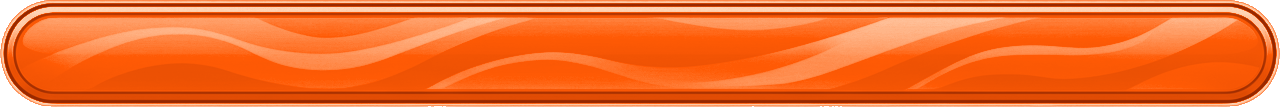
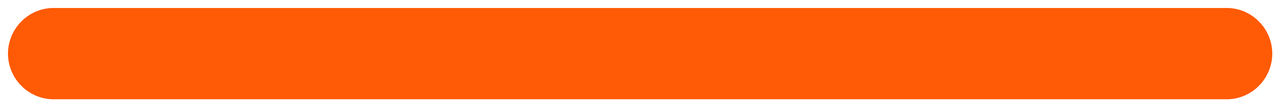
Online screens: flat bars and cards, no cloud swirls; shorter footer labels in Portuguese
Claude-Session: https://claude.ai/code/session_01DDfnXSMYNnWowJAjnB3ZWo

diff --git a/port/tools/onfly_theme.py b/port/tools/onfly_theme.py
@@ -5,10 +5,10 @@
 
 The colours are the ones the company's public site uses (read from its style sheets, 2026-11-14): the blue #009EFB
 with its dark #0062AB and light #97CCFD, the orange of its buttons #FF5A05, the dark #192A3D and #121212, the cream
-#FAF9F5. The interface pieces keep their shapes, sizes and transparency: each is read as it is in the commit ORIGIN
-(the pictures the screens came with) and only its colours are drawn again, a pixel's brightness placed on a ramp
-dark - base - light (the picture's middle brightness lands on the base). The Dragon Radar keeps its drawing, turned
-from green to the blue. The background is drawn here: the blue, a globe's lines and flight paths.
+#FAF9F5. The interface pieces (bars, capsules, window, box) are drawn here from nothing, flat and round-ended as the site's
+buttons and cards are, at the sizes of the pictures the screens came with (so the screens' slicing of ends and
+corners still fits). The Dragon Radar keeps its drawing (read as it is in the commit ORIGIN), turned from green to
+the blue. The background is drawn here: the blue, a globe's lines and flight paths.
 The sizes do not change, so include/menu/tbo_sizes.h stays as it is.
 """
 import io
@@ -26,16 +26,6 @@ BLUE, BLUE_DARK, BLUE_LIGHT, BLUE_PALE = (0, 158, 251), (0, 98, 171), (151, 204,
 ORANGE, ORANGE_DARK = (255, 90, 5), (215, 54, 0)
 NAVY, INK, CREAM = (25, 42, 61), (18, 18, 18), (250, 249, 245)
 
-RAMPS = {  # picture: dark, base, light
-    "kit_bar": ((0, 44, 82), BLUE_DARK, BLUE_LIGHT),
-    "kit_sel": ((150, 40, 0), ORANGE, (255, 214, 184)),
-    "kit_gold": ((150, 40, 0), ORANGE, (255, 222, 198)),
-    "kit_steel": ((14, 40, 66), (36, 110, 170), BLUE_PALE),
-    "kit_window": ((8, 18, 30), NAVY, (70, 110, 150)),
-    "kit_dialog": ((6, 12, 20), (14, 28, 44), BLUE),
-}
-
-
 def original(name):
     data = subprocess.run(["git", "show", f"{ORIGIN}:port/tbo/ui/{name}.png"], cwd=ROOT, capture_output=True, check=True).stdout
     return Image.open(io.BytesIO(data)).convert("RGBA")
@@ -45,18 +35,37 @@ def lerp(a, b, t):
     return tuple(int(round(a[i] + (b[i] - a[i]) * t)) for i in range(3))
 
 
-def ramp(name, dark, base, light):
-    im = original(name)
-    px = im.load()
-    lum = sorted((0.299 * r + 0.587 * g + 0.114 * b) / 255.0 for r, g, b, a in im.getdata() if a > 128)
-    mid = min(max(lum[len(lum) // 2], 0.15), 0.85)
-    table = [lerp(dark, base, (i / 255.0) / mid) if i / 255.0 < mid else lerp(base, light, (i / 255.0 - mid) / (1.0 - mid)) for i in range(256)]
-    for y in range(im.height):
-        for x in range(im.width):
-            r, g, b, a = px[x, y]
-            if a:
-                px[x, y] = table[int(0.299 * r + 0.587 * g + 0.114 * b)] + (a,)
-    im.save(ART / f"{name}.png", optimize=True)
+SIZES = {"kit_bar": (1273, 100), "kit_sel": (1280, 107), "kit_gold": (306, 81), "kit_steel": (306, 75),
+         "kit_window": (465, 224), "kit_dialog": (1273, 204)}  # as the pictures the screens came with (tbo_sizes.h)
+K = 4  # drawn this many times larger and scaled down (smooth edges)
+
+
+def flat(name, fill, radius=None, border=None, ring=None):
+    """One flat rounded shape filling the picture: a bar (radius None: half its height) or a box. `border` a thin
+    line inside its edge, `ring` a white line round it (the chosen bar)."""
+    w, h = SIZES[name]
+    im = Image.new("RGBA", (w * K, h * K), (0, 0, 0, 0))
+    d = ImageDraw.Draw(im)
+    m = 3 * K
+    r = (h * K - 2 * m) // 2 if radius is None else radius * K
+    if ring is not None:
+        d.rounded_rectangle((m, m, w * K - m, h * K - m), r, fill=ring)
+        m += 5 * K
+        r = max(r - 5 * K, 0)
+    d.rounded_rectangle((m, m, w * K - m, h * K - m), r, fill=fill)
+    if border is not None:
+        d.rounded_rectangle((m, m, w * K - m, h * K - m), r, outline=border, width=2 * K)
+    im.resize((w, h), Image.LANCZOS).save(ART / f"{name}.png", optimize=True)
+
+
+def kit():
+    # flat, round-ended, one colour each, as the site's buttons and cards are: no gloss, no pattern, no ornaments
+    flat("kit_bar", (30, 62, 96, 255))                                   # a row: a blue darker than the page
+    flat("kit_sel", ORANGE + (255,), ring=(255, 255, 255, 255))          # the chosen row: the site's button orange
+    flat("kit_gold", ORANGE_DARK + (255,))                               # a marked row, a dialog's button
+    flat("kit_steel", (87, 99, 113, 255))                                # a tag ("EM BREVE", "GESTOR")
+    flat("kit_window", (12, 24, 40, 242), radius=30, border=(151, 204, 253, 90))   # a card
+    flat("kit_dialog", (18, 18, 18, 236), radius=40, border=BLUE + (255,))
 
 
 def radar():
@@ -103,11 +112,10 @@ def background():
 
 
 def main():
-    for name, (dark, base, light) in RAMPS.items():
-        ramp(name, dark, base, light)
+    kit()
     radar()
     background()
-    print("port/tbo/ui: " + ", ".join(list(RAMPS) + ["radar", "bg"]))
+    print("port/tbo/ui: " + ", ".join(list(SIZES) + ["radar", "bg"]))
 
 
 if __name__ == "__main__":

diff --git a/port/tools/onfly_pt.py b/port/tools/onfly_pt.py
@@ -170,8 +170,8 @@ PT = {
     "TOURNAMENT": "RINHA", "VERSUS": "VERSUS", "%d PLAYERS": "%d VIAJANTES", "%d%% (STANDARD)": "%d%% (PADRÃO)",
     "OFF": "DESLIGADO", "UP TO %d FRAMES": "ATÉ %d QUADROS",
     "Match On": "Luta em Curso", "Start Next Match": "Próxima Decolagem", "New Tournament": "Nova Rinha",
-    "Start Tournament": "Começar a Rinha", "Start Match": "Decolar", "Bracket": "Itinerário",
-    "Not Ready": "Sem Check-in", "Ready": "Check-in Feito", "Chat": "Chat", "Close Lobby": "Fechar Sala", "Leave Lobby": "Sair da Sala",
+    "Start Tournament": "Começar Rinha", "Start Match": "Decolar", "Bracket": "Itinerário",
+    "Not Ready": "Sem Check-in", "Ready": "Check-in Feito", "Chat": "Chat", "Close Lobby": "Fechar", "Leave Lobby": "Sair",
     "A MATCH IS ON ALREADY": "JÁ HÁ UMA LUTA EM CURSO",
     "TWO PLAYERS ARE NEEDED: ONE IN 1P, ONE IN 2P": "FALTAM DOIS VIAJANTES: UM NO 1P, UM NO 2P",
     "CHOOSE THE WINNER OF THE DISPUTED MATCH ON THE BRACKET": "ESCOLHA NO ITINERÁRIO O APROVADO DA LUTA EM AUDITORIA",
@@ -179,7 +179,7 @@ PT = {
     "NO MATCH LEFT TO PLAY": "NÃO HÁ MAIS LUTAS",
     "PUT AT LEAST TWO PLAYERS IN THE PLAYER PLACES": "COLOQUE PELO MENOS DOIS VIAJANTES NOS ASSENTOS",
     "Send": "Enviar", "Yes": "Sim", "No": "Não", "Move": "Remarcar", "Remove from the Lobby": "Cancelar a Reserva", "OK": "OK",
-    "Move Here": "Remarcar Aqui", "Copy Code": "Copiar Localizador", "Copy Address": "Copiar Endereço",
+    "Move Here": "Remarcar Aqui", "Copy Code": "Copiar", "Copy Address": "Copiar",
     "THE ENTRANTS CANNOT CHANGE DURING A TOURNAMENT": "OS VIAJANTES NÃO MUDAM DURANTE UMA RINHA",
     "THE RULES CANNOT CHANGE DURING A MATCH": "A POLÍTICA NÃO MUDA DURANTE UMA LUTA",
     "NOT DURING A MATCH: THE PLACES CHANGE BETWEEN MATCHES": "DURANTE A LUTA NÃO: OS ASSENTOS MUDAM ENTRE AS LUTAS",

diff --git a/src/menu/port_tbo.c b/src/menu/port_tbo.c
@@ -4240,7 +4240,9 @@ s32 PortTbo_Run(void) {
         Tb_Speak();
         Ps_PageSet();
         Tb_Backdrop();
-        IconWin_Draw(); /* the clouds in the corners, the emblem, the line under the title */
+        /* (the fork's look: the game's heading window, IconWin_Draw, with its cloud swirls in the corners is not
+           drawn; a plain line under the title stands for its line) */
+        Ps_Quad(Tb_TitleLeft(), 55.0f, 300.0f, 55.0f, Tb_TitleLeft(), 57.0f, 300.0f, 57.0f, 0x80FFFFFF, 0x00FFFFFF, 0x80FFFFFF, 0x00FFFFFF);
         Tb_Draw();
         Tb_DrawText();
         Ps_PromptsDraw();

diff --git a/docs/port/README.md b/docs/port/README.md
@@ -4850,12 +4850,19 @@ and the font are the ones its public site uses, read from the site's style sheet
 #97CCFD, the orange of its buttons #FF5A05, the dark #192A3D, and Poppins.
 
 - **Pictures** (`port/tbo/ui`, made by `port/tools/onfly_theme.py`, which needs Pillow): the bars, the capsules, the
-  window and the hosts' box keep their shapes and sizes and are coloured again from their brightness (bars blue, the
-  chosen bar and the gold capsule orange, window and box dark blue); the Dragon Radar is turned from green to blue;
+  window and the hosts' box are drawn again from nothing, flat and round-ended as the site's buttons and cards are,
+  at the sizes they had (first they were only coloured again, and the user found they still looked like the game's:
+  the gloss, the wave pattern, the frames); a row is dark blue, the chosen row the orange with a white ring, a window
+  a dark card with a thin line; the Dragon Radar is turned from green to blue;
   the background (the tournament grounds) is replaced by one drawn by the tool, the blue with a globe's lines. The
   announcer, the buttons and the crest are as they were. No size changed (`tbo_sizes.h` untouched).
 - **Font.** Poppins SemiBold and Medium (SIL Open Font License, `port/third_party/fonts/poppins`) are first in
   `fonts.tsv` for the Menu and the Dialogue / UI uses, so the online screens' headings and buttons are lettered in
   Poppins while the Menu font is "Original". It is wider than Fira Sans Condensed, which it replaces there.
-- **Checked:** the first page in a window on macOS, a screenshot. **Not checked:** the other pages (a wider font
+- **The heading's window.** The game's `IconWin_Draw` (the cloud swirls in the corners and the line under the title)
+  is no longer called by these screens; a plain line that fades to the right is drawn under the title
+  (`src/menu/port_tbo.c`). Still the game's own: the message box at the foot (`MsgWin`, its meander corners and the
+  game's lettering), the title's lettering style, the announcer.
+- **Checked:** the first page, a lobby's page with four members and a bracket in a window on macOS, screenshots
+  (the lobby's footer was too wide in Portuguese: its labels are shorter now). **Not checked:** the other pages (a wider font
   and longer Portuguese lines may not fit a place), the search's radar, a release's archive.
